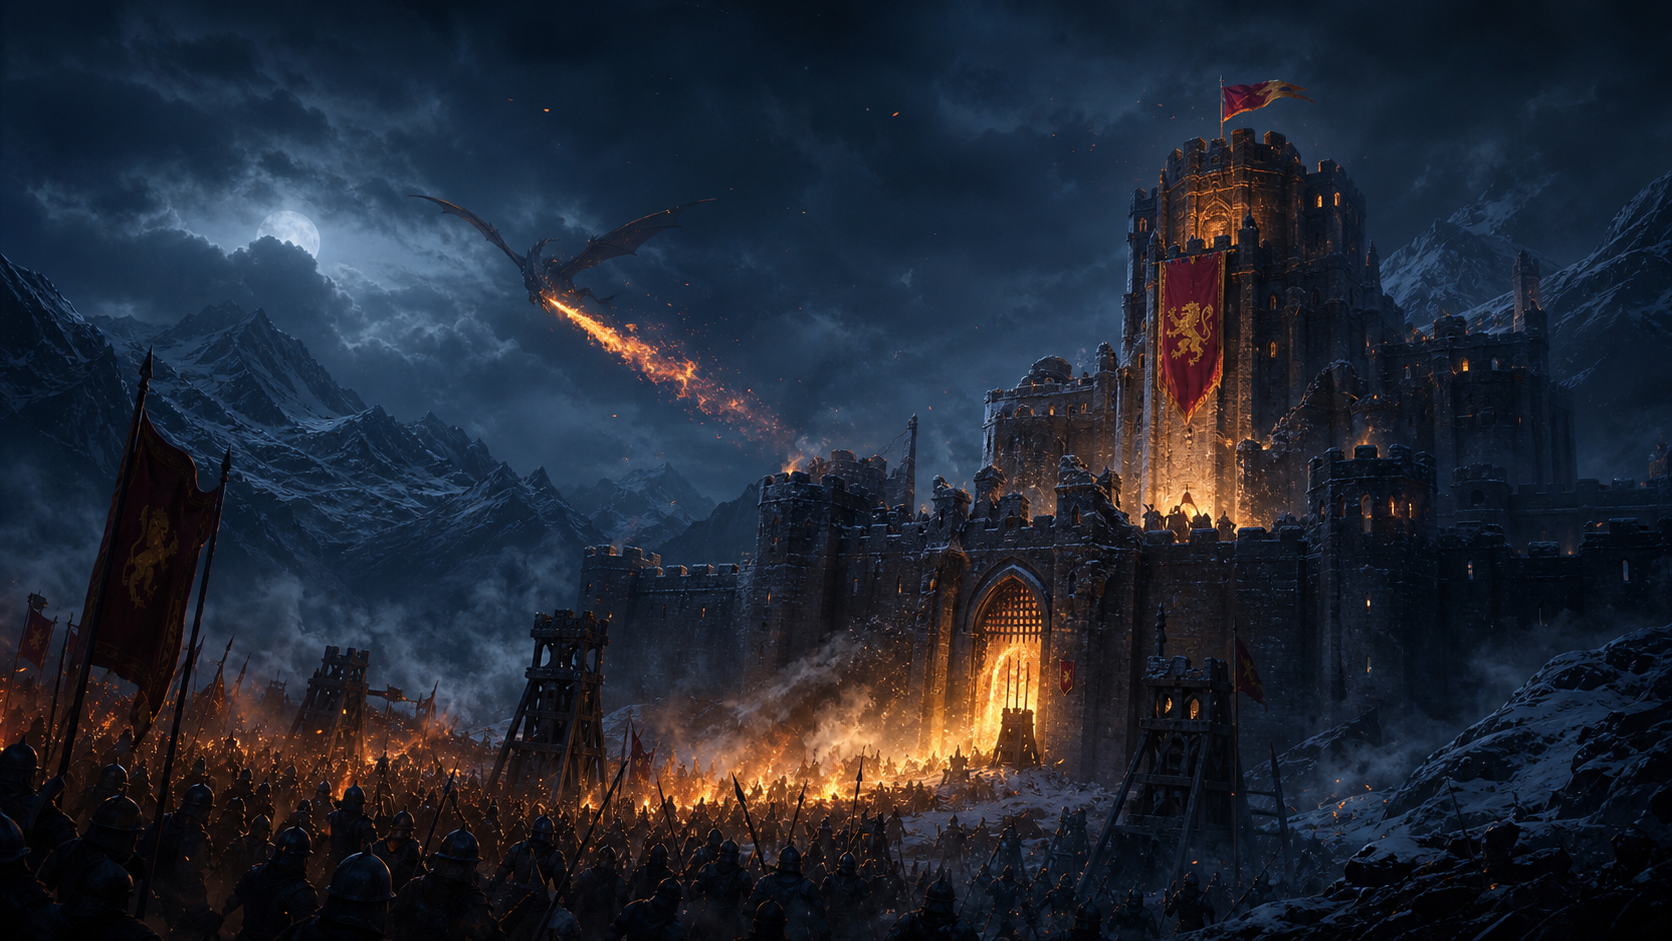
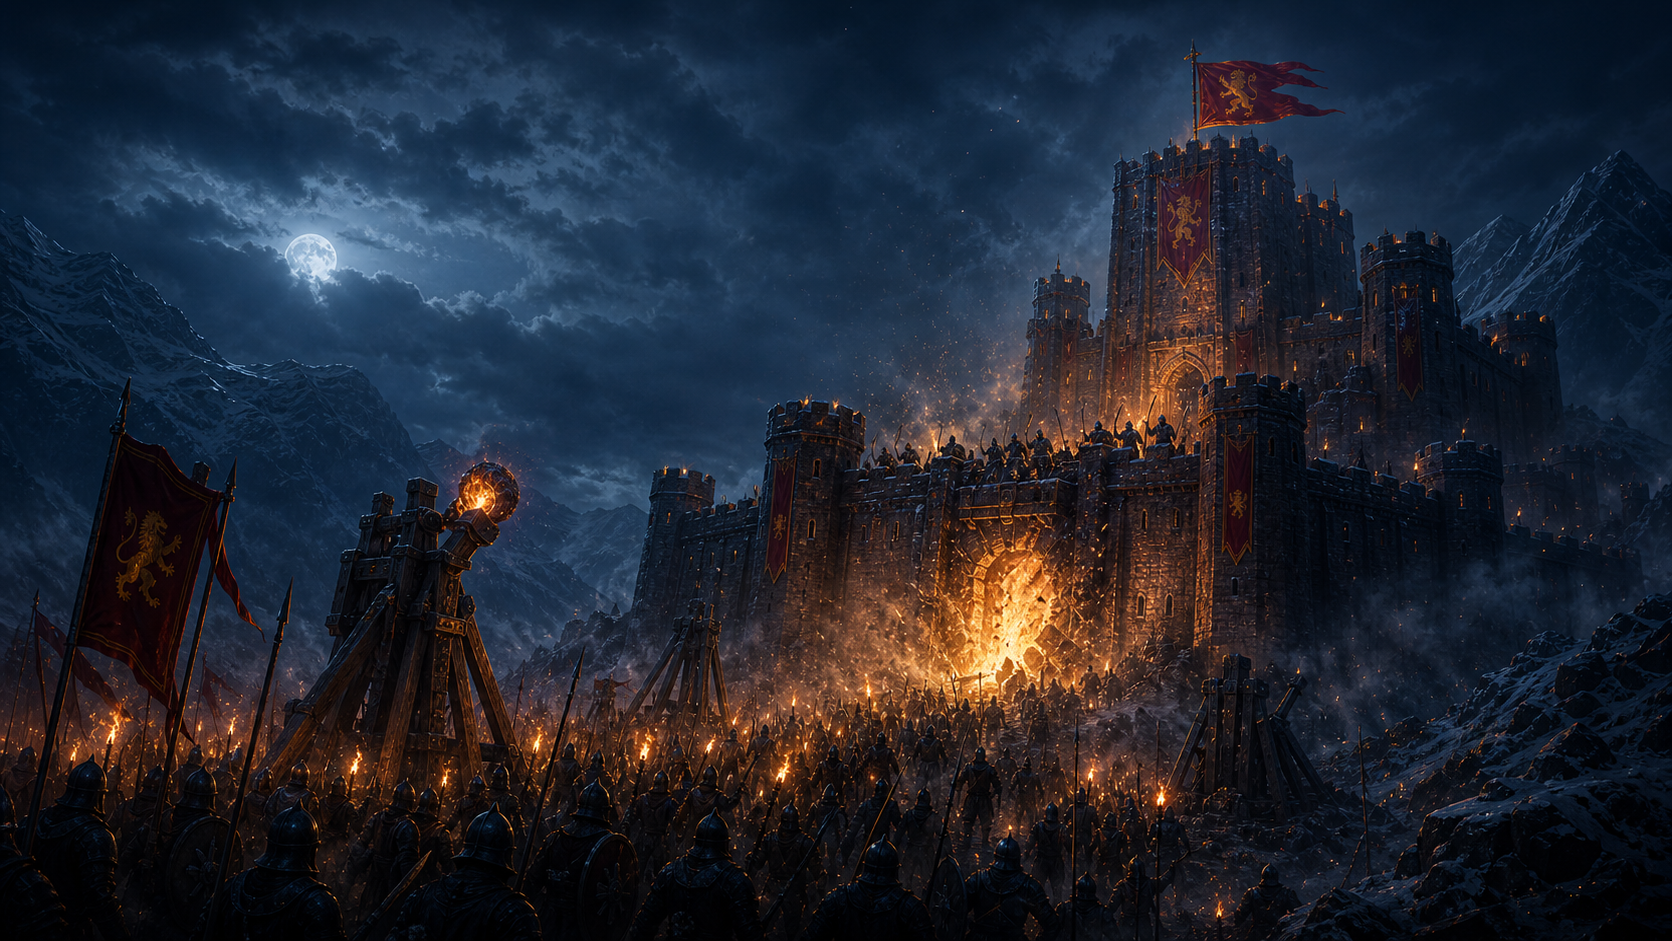
Animate generated siege cinematic

diff --git a/styles.css b/styles.css
@@ -642,14 +642,20 @@ canvas { display: block; width: 100%; height: 100%; touch-action: none; }
 .siege-host i:nth-child(2) { left: 26px; animation-delay: .1s; }
 .siege-host i:nth-child(3) { left: 52px; animation-delay: .2s; }
 .siege-host i:nth-child(4) { left: 78px; animation-delay: .3s; }
-.cinema-dragon { position: absolute; left: -110px; top: 48px; width: 126px; height: 54px; opacity: 0; filter: drop-shadow(0 0 16px #ff8a35aa); animation: dragonSweep 6.2s ease-in-out both; }
-.cinema-dragon i { position: absolute; left: 36px; top: 22px; width: 54px; height: 18px; border-radius: 50% 45% 35% 50%; background: linear-gradient(90deg, #0a0d14, #273142); }
-.cinema-dragon i::before, .cinema-dragon i::after { content: ""; position: absolute; top: -24px; width: 54px; height: 42px; background: linear-gradient(145deg, #121827, #384254); clip-path: polygon(0 100%, 50% 0, 100% 100%, 48% 72%); transform-origin: bottom center; animation: wingBeat .5s ease-in-out infinite alternate; }
-.cinema-dragon i::before { left: -32px; transform: rotate(-16deg); }
-.cinema-dragon i::after { right: -32px; transform: rotate(16deg) scaleX(-1); }
-.cinema-dragon b { position: absolute; right: -58px; top: 26px; width: 86px; height: 18px; border-radius: 999px; background: linear-gradient(90deg, #fff0a8, #ff8a35 42%, transparent); opacity: 0; animation: dragonBreath 6.2s ease-in-out both; }
-.rune-finale .cinema-dragon { filter: drop-shadow(0 0 18px #b78cffaa); }
-.rune-finale .cinema-dragon b { background: linear-gradient(90deg, #ffffff, #b78cff 42%, transparent); }
+.gate-flare { position: absolute; z-index: 7; right: 116px; bottom: 92px; width: 96px; height: 106px; border-radius: 50%; background: radial-gradient(circle, #fff1a8 0 12%, #ff9a32bb 30%, #ff441a45 48%, transparent 70%); filter: blur(2px) drop-shadow(0 0 28px #ff8a35); opacity: 0; animation: gateBreachFlare 7.4s ease-in-out both; }
+.banner-glow { position: absolute; z-index: 7; right: 58px; top: 32px; width: 78px; height: 92px; background: radial-gradient(circle, #ffe8a855, #f4c16d22 35%, transparent 70%); opacity: 0; filter: blur(4px); animation: bannerGlowRise 7.4s ease-in-out both; }
+.ward-cracks i { position: absolute; z-index: 8; right: 142px; bottom: 118px; width: 96px; height: 3px; border-radius: 999px; background: linear-gradient(90deg, transparent, #fff6c9, #ff8a35, transparent); box-shadow: 0 0 14px #ff9a35; opacity: 0; transform-origin: right center; animation: wardCrack 7.2s ease-in-out both; }
+.ward-cracks i:nth-child(1) { transform: rotate(-28deg); }
+.ward-cracks i:nth-child(2) { bottom: 146px; right: 126px; transform: rotate(12deg); animation-delay: .25s; }
+.ward-cracks i:nth-child(3) { bottom: 100px; right: 106px; transform: rotate(34deg); animation-delay: .45s; }
+.rune-finale .ward-cracks i { background: linear-gradient(90deg, transparent, #ffffff, #b98cff, transparent); box-shadow: 0 0 16px #b98cff; }
+.ember-storm i { position: absolute; z-index: 8; bottom: 44px; left: calc(12% + var(--ember-x) * 12%); width: 5px; height: 5px; border-radius: 50%; background: #ffd27a; box-shadow: 0 0 10px #ff8a35; opacity: 0; animation: emberRise 4.8s ease-in-out infinite; }
+.ember-storm i:nth-child(1) { --ember-x: 0; animation-delay: .1s; }
+.ember-storm i:nth-child(2) { --ember-x: 1; animation-delay: .7s; }
+.ember-storm i:nth-child(3) { --ember-x: 2; animation-delay: 1.2s; }
+.ember-storm i:nth-child(4) { --ember-x: 3; animation-delay: .35s; }
+.ember-storm i:nth-child(5) { --ember-x: 4; animation-delay: 1.6s; }
+.ember-storm i:nth-child(6) { --ember-x: 5; animation-delay: 2.1s; }
 .siege-magic i { position: absolute; left: 112px; bottom: 146px; width: 15px; height: 15px; border-radius: 50%; background: #ff9c3a; box-shadow: 0 0 22px #ff7a24; opacity: 0; animation: cinematicShot 6.3s ease-in-out both; }
 .rune-finale .siege-magic i { background: #b98cff; box-shadow: 0 0 24px #b98cff; }
 .siege-magic i:nth-child(2) { animation-delay: .38s; bottom: 124px; }
@@ -676,9 +682,10 @@ canvas { display: block; width: 100%; height: 100%; touch-action: none; }
 @keyframes mistDrift { to { transform: translateX(45px); opacity: .65; } }
 @keyframes soldierBob { to { transform: translateY(-4px); } }
 @keyframes hostAdvance { 0% { transform: translateX(-48px); } 42%, 100% { transform: translateX(38px); } }
-@keyframes dragonSweep { 0%, 8% { opacity: 0; transform: translate(-50px, 12px) scale(.85); } 18% { opacity: .92; } 48% { opacity: .92; transform: translate(260px, -12px) scale(1.03); } 62%, 100% { opacity: 0; transform: translate(360px, -18px) scale(.9); } }
-@keyframes wingBeat { to { transform: rotate(0deg) scaleY(.78); } }
-@keyframes dragonBreath { 0%, 22% { opacity: 0; transform: scaleX(.2); } 31%, 44% { opacity: .95; transform: scaleX(1); } 56%, 100% { opacity: 0; transform: scaleX(.2); } }
+@keyframes gateBreachFlare { 0%, 18% { opacity: 0; transform: scale(.45); } 32% { opacity: .95; transform: scale(1.1); } 52% { opacity: .58; transform: scale(.85); } 72%, 100% { opacity: .18; transform: scale(1.2); } }
+@keyframes bannerGlowRise { 0%, 50% { opacity: 0; transform: translateY(16px) scale(.8); } 68%, 100% { opacity: .85; transform: translateY(0) scale(1); } }
+@keyframes wardCrack { 0%, 22% { opacity: 0; clip-path: inset(0 100% 0 0); } 38% { opacity: 1; clip-path: inset(0 0 0 0); } 58%, 100% { opacity: 0; clip-path: inset(0 0 0 100%); } }
+@keyframes emberRise { 0% { opacity: 0; transform: translateY(0) scale(.4); } 20% { opacity: .95; } 100% { opacity: 0; transform: translateY(-190px) translateX(28px) scale(1.1); } }
 @keyframes cinematicShot { 0%, 18% { opacity: 0; transform: translate(0, 0) scale(.8); } 30% { opacity: 1; } 46%, 100% { opacity: 0; transform: translate(140px, -38px) scale(1.35); } }
 @keyframes cinematicBurst { 0%, 35% { opacity: 0; transform: scale(.25); } 43% { opacity: 1; transform: scale(1.4); } 58%, 100% { opacity: 0; transform: scale(.5); } }
 @keyframes castleHitCinematic { 0%, 34% { transform: rotate(0) scale(1); filter: drop-shadow(0 18px 16px #000b); } 38% { transform: rotate(-1.2deg) scale(1.01); filter: drop-shadow(0 18px 16px #000b) brightness(1.2); } 42% { transform: rotate(1deg); } 52%, 100% { transform: rotate(0); } }
@@ -700,23 +707,32 @@ canvas { display: block; width: 100%; height: 100%; touch-action: none; }
 .generated-cinematic .travel-host,
 .generated-cinematic .destination-castle { display: none; }
 .generated-cinematic .cinema-mist { z-index: 4; bottom: 24px; height: 95px; opacity: .8; }
-.generated-cinematic .cinema-dragon { z-index: 5; top: 45px; transform: scale(.82); mix-blend-mode: screen; }
 .generated-cinematic .siege-magic, .generated-cinematic .impact-bursts { position: relative; z-index: 6; }
 .generated-cinematic .siege-magic i { left: 52px; bottom: 124px; width: 18px; height: 18px; }
 .generated-cinematic .impact-bursts i { right: 83px; bottom: 136px; width: 62px; height: 62px; }
 .generated-cinematic .impact-bursts i:nth-child(2) { right: 120px; bottom: 105px; }
 .generated-cinematic .impact-bursts i:nth-child(3) { right: 52px; bottom: 170px; }
+.travel-route { position: absolute; z-index: 7; left: 72px; right: 58px; bottom: 76px; height: 74px; opacity: 0; pointer-events: none; }
+.travel-route i { position: absolute; left: 0; right: 0; bottom: 16px; height: 4px; border-radius: 999px; background: linear-gradient(90deg, transparent, #f6c66f, #ff8a35, transparent); box-shadow: 0 0 16px #f6c66f; clip-path: inset(0 100% 0 0); }
+.travel-route::before { content: ""; position: absolute; left: -5px; bottom: 8px; width: 16px; height: 16px; border-radius: 50%; background: #f6c66f; box-shadow: 0 0 18px #f6c66f; }
+.travel-route::after { content: ""; position: absolute; right: -4px; bottom: 8px; width: 18px; height: 18px; border-radius: 50%; border: 2px solid #f6c66f; box-shadow: 0 0 18px #f6c66f; }
 .castle-finale.traveling .siege-art { opacity: 0; transform: scale(1.08) translateX(-4%); transition: opacity 1s ease, transform 1s ease; }
 .castle-finale.traveling .travel-art { opacity: 1; transform: scale(1.03) translateX(0); transition: opacity 1s ease, transform 6s ease; }
 .castle-finale.traveling .cinematic-grade { background: radial-gradient(circle at 80% 22%, #ff9b3b26, transparent 24%), radial-gradient(circle at 48% 78%, transparent 35%, #00000070 100%), linear-gradient(90deg, #0000003d, transparent 32% 76%, #00000045); }
-.castle-finale.traveling .cinema-dragon,
+.castle-finale.traveling .travel-route { opacity: 1; transition: opacity .9s ease .5s; }
+.castle-finale.traveling .travel-route i { animation: routeDraw 3.2s ease .6s both; }
 .castle-finale.traveling .siege-magic,
-.castle-finale.traveling .impact-bursts { opacity: 0; transition: opacity .65s ease; }
+.castle-finale.traveling .impact-bursts,
+.castle-finale.traveling .gate-flare,
+.castle-finale.traveling .banner-glow,
+.castle-finale.traveling .ward-cracks,
+.castle-finale.traveling .ember-storm { opacity: 0; transition: opacity .65s ease; }
 @keyframes siegeCamera {
   0% { transform: scale(1.1) translateX(-2%); filter: saturate(.95) brightness(.95); }
   48% { transform: scale(1.03) translateX(1%); filter: saturate(1.06) brightness(1.03); }
   100% { transform: scale(1.06) translateX(0); filter: saturate(1.02) brightness(.98); }
 }
+@keyframes routeDraw { to { clip-path: inset(0 0 0 0); } }
 nav {
   position: fixed; z-index: 20; width: min(100%, 430px); left: 50%; bottom: 0; transform: translateX(-50%);
   height: calc(64px + env(safe-area-inset-bottom)); padding: 5px 35px env(safe-area-inset-bottom);

diff --git a/index.html b/index.html
@@ -10,7 +10,7 @@
   <title>The Shattered Realm</title>
   <link rel="manifest" href="manifest.webmanifest">
   <link rel="apple-touch-icon" href="icons/shattered-realm-icon.svg">
-  <link rel="stylesheet" href="styles.css?v=44">
+  <link rel="stylesheet" href="styles.css?v=45">
 </head>
 <body>
   <div class="game-shell">
@@ -152,7 +152,10 @@
         <div class="cinema-mountains"><i></i><i></i><i></i></div>
         <div class="cinema-road"></div>
         <div class="siege-host"><i></i><i></i><i></i><i></i></div>
-        <div class="cinema-dragon"><i></i><b></b></div>
+        <div class="ward-cracks"><i></i><i></i><i></i></div>
+        <div class="gate-flare"></div>
+        <div class="banner-glow"></div>
+        <div class="ember-storm"><i></i><i></i><i></i><i></i><i></i><i></i></div>
         <div class="siege-magic"><i></i><i></i><i></i></div>
         <div class="siege-castle-model">
           <span class="tower left"></span>
@@ -163,14 +166,15 @@
         <div class="impact-bursts"><i></i><i></i><i></i></div>
         <div class="travel-host"><i></i><i></i><i></i><i></i></div>
         <div class="destination-castle"><i></i><i></i><i></i></div>
+        <div class="travel-route"><i></i></div>
       </div>
       <p id="finale-copy">Your banners rise over the battlements. The host gathers itself for the next march.</p>
       <button id="finale-continue" data-go="realm-screen">Continue the Campaign</button>
     </div>
   </div>
   <script src="https://cdn.jsdelivr.net/npm/phaser@3.90.0/dist/phaser.min.js"></script>
-  <script src="game.js?v=44"></script>
-  <script src="phaser-dragon.js?v=44"></script>
+  <script src="game.js?v=45"></script>
+  <script src="phaser-dragon.js?v=45"></script>
   <script>
     if ("serviceWorker" in navigator) {
       window.addEventListener("load", () => navigator.serviceWorker.register("sw.js").catch(() => {}));

diff --git a/sw.js b/sw.js
@@ -1,10 +1,10 @@
-const CACHE_NAME = "shattered-realm-v44";
+const CACHE_NAME = "shattered-realm-v45";
 const ASSETS = [
   "./",
   "./index.html",
-  "./styles.css?v=44",
-  "./game.js?v=44",
-  "./phaser-dragon.js?v=44",
+  "./styles.css?v=45",
+  "./game.js?v=45",
+  "./phaser-dragon.js?v=45",
   "./assets/cinematics/siege-frost-v1.png",
   "./assets/cinematics/travel-ash-v1.png",
   "./assets/phaser/rune-board-v1.jpg",